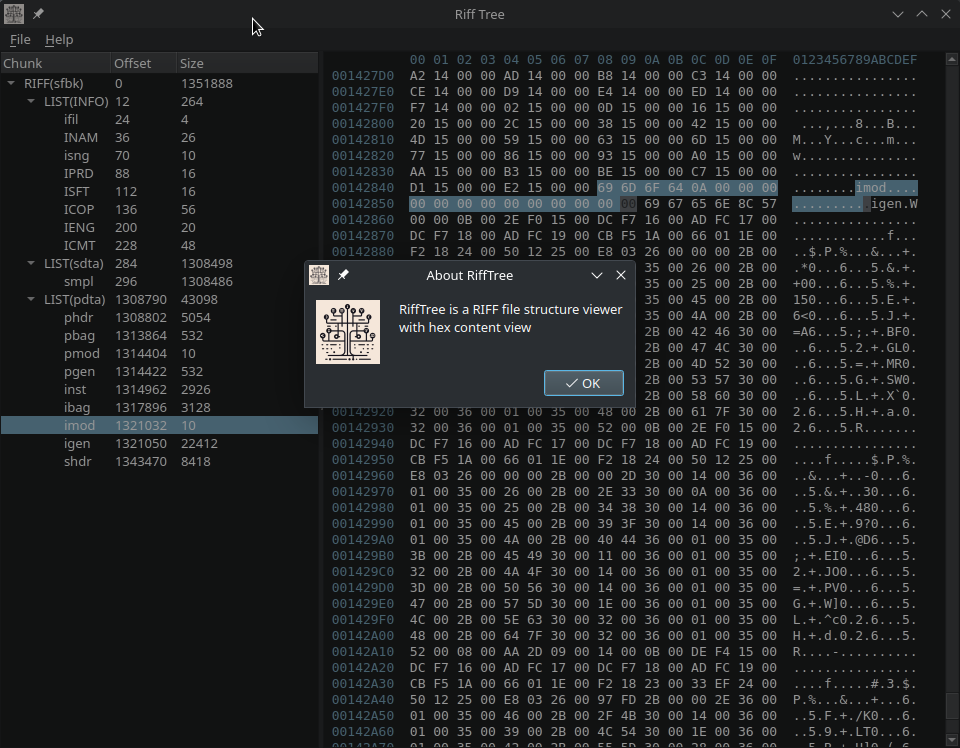
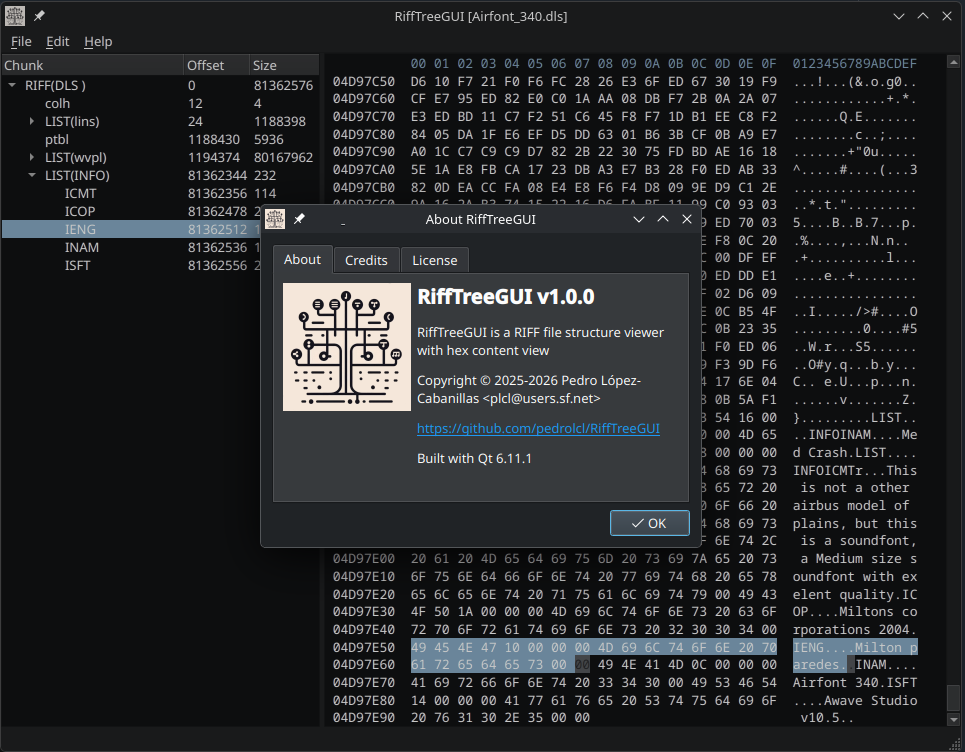
update about dialog and screenshot

diff --git a/aboutdialog.cpp b/aboutdialog.cpp
@@ -7,14 +7,14 @@
 #include <QObject>
 #include <QPixmap>
 #include <QTabWidget>
-#include <QTextEdit>
+#include <QTextBrowser>
 #include <QVBoxLayout>
 
 #include "aboutdialog.h"
 
 AboutDialog::AboutDialog(QWidget *parent) : QDialog(parent) {
     setWindowTitle(tr("About RiffTreeGUI"));
-    resize(420, 300);
+    resize(440, 314);
 
     QVBoxLayout *mainLayout = new QVBoxLayout(this);
     QTabWidget *tabs = new QTabWidget(this);
@@ -63,7 +63,8 @@ AboutDialog::AboutDialog(QWidget *parent) : QDialog(parent) {
 
     QWidget *licenseTab = new QWidget(this);
     QVBoxLayout *licenseLayout = new QVBoxLayout(licenseTab);
-    QLabel *licenseText = new QLabel(tr("<p>Copyright © 2025-2026 Pedro López-Cabanillas</p>"
+    QTextBrowser *licenseText = new QTextBrowser(this);
+    licenseText->setHtml(tr("<p>Copyright © 2025-2026 Pedro López-Cabanillas</p>"
     "<p>This program is free software: you can redistribute it and/or modify "
     "it under the terms of the GNU General Public License as published by "
     "the Free Software Foundation, either version 3 of the License, or "
@@ -76,7 +77,7 @@ AboutDialog::AboutDialog(QWidget *parent) : QDialog(parent) {
     "along with this program. If not, see "
     "<a href='https://www.gnu.org/licenses'>https://www.gnu.org/licenses</a></p>"));
     licenseText->setOpenExternalLinks(true);
-    licenseText->setWordWrap(true);
+    licenseText->setWordWrapMode(QTextOption::WordWrap);
     licenseLayout->addWidget(licenseText);
     tabs->addTab(licenseTab, tr("License"));
 
